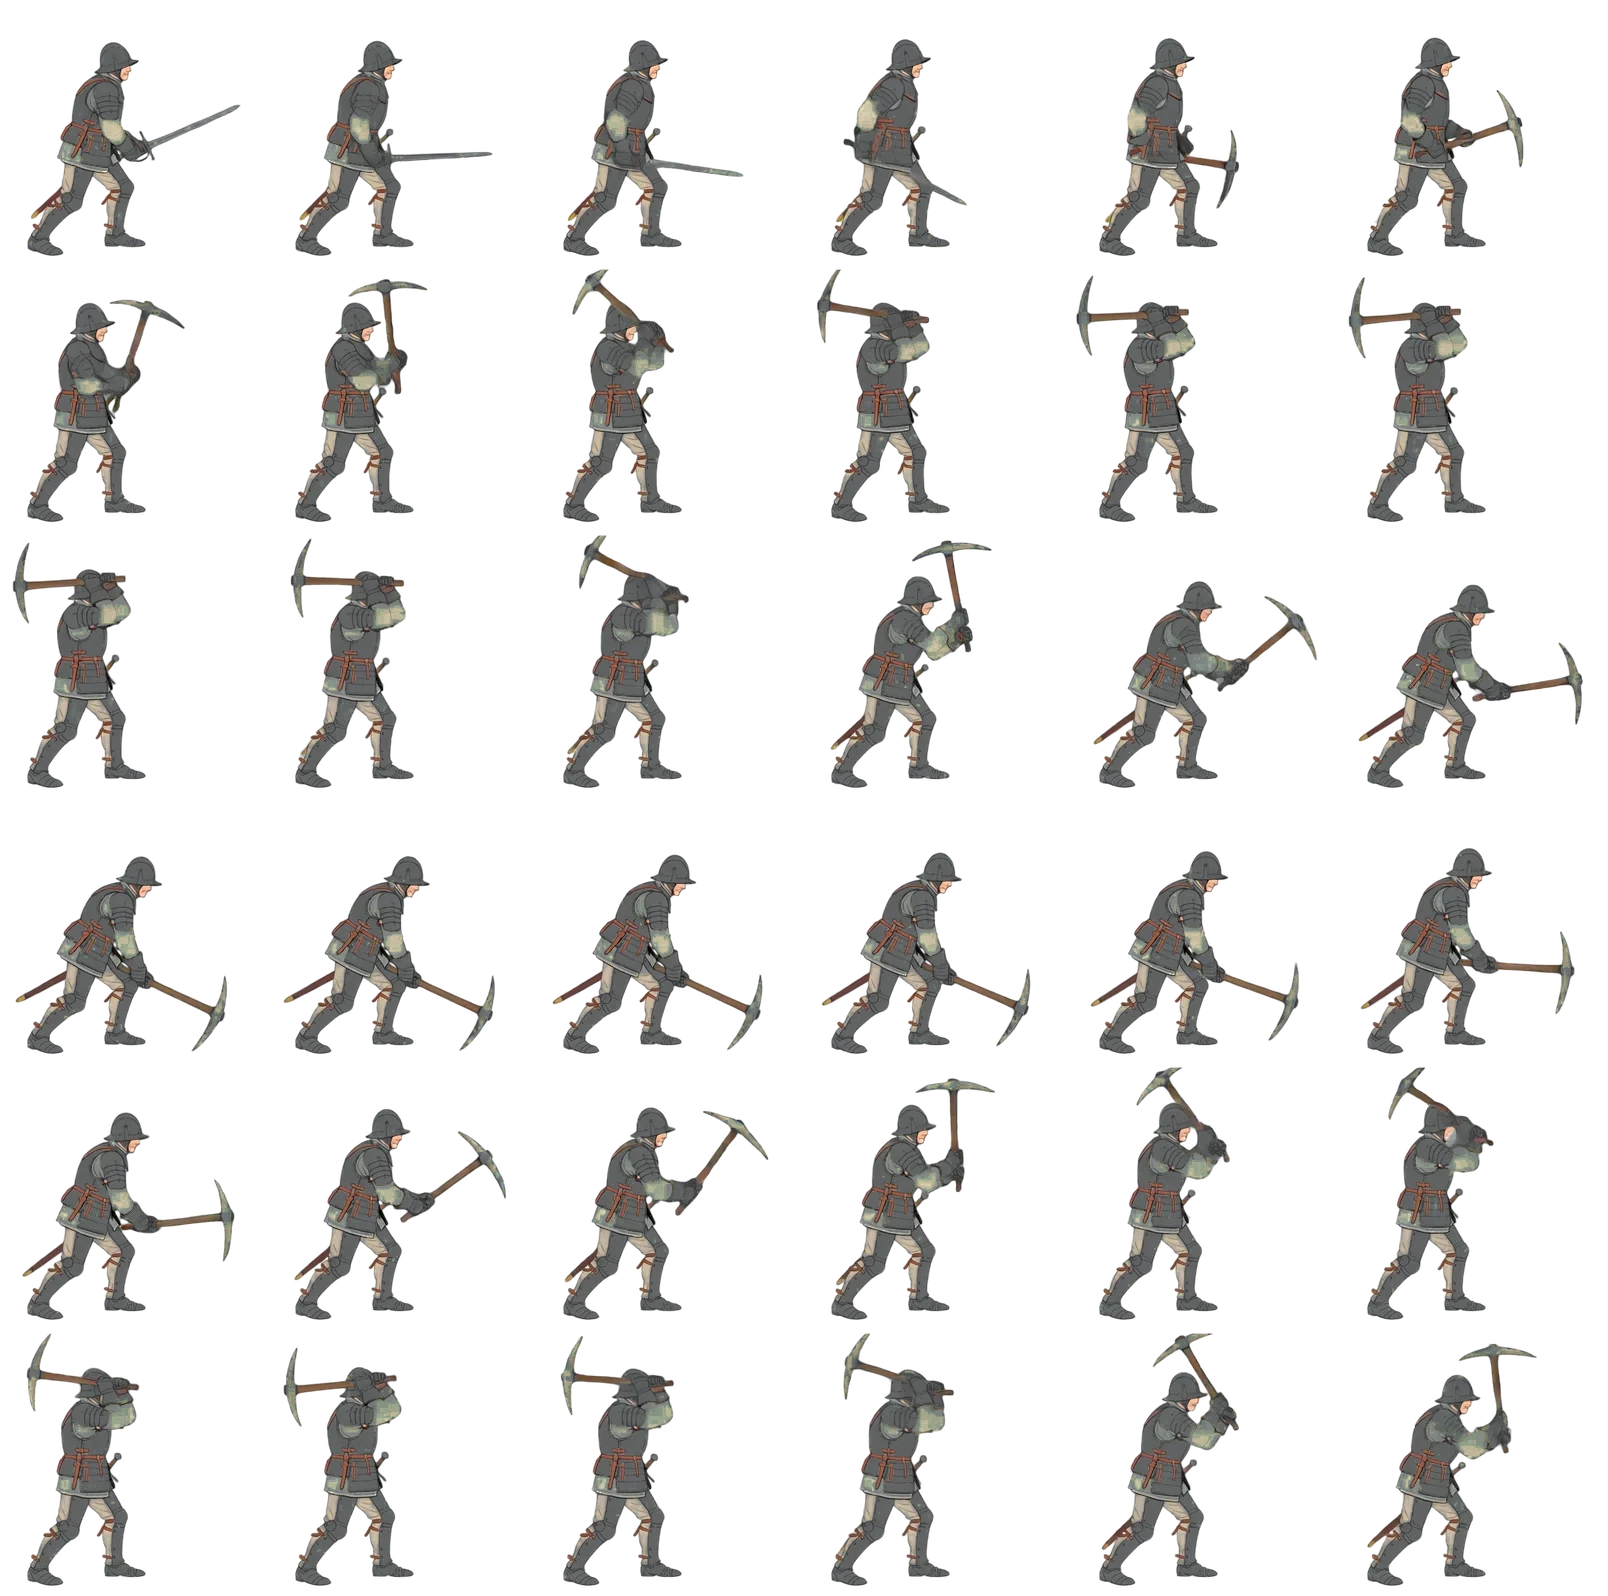
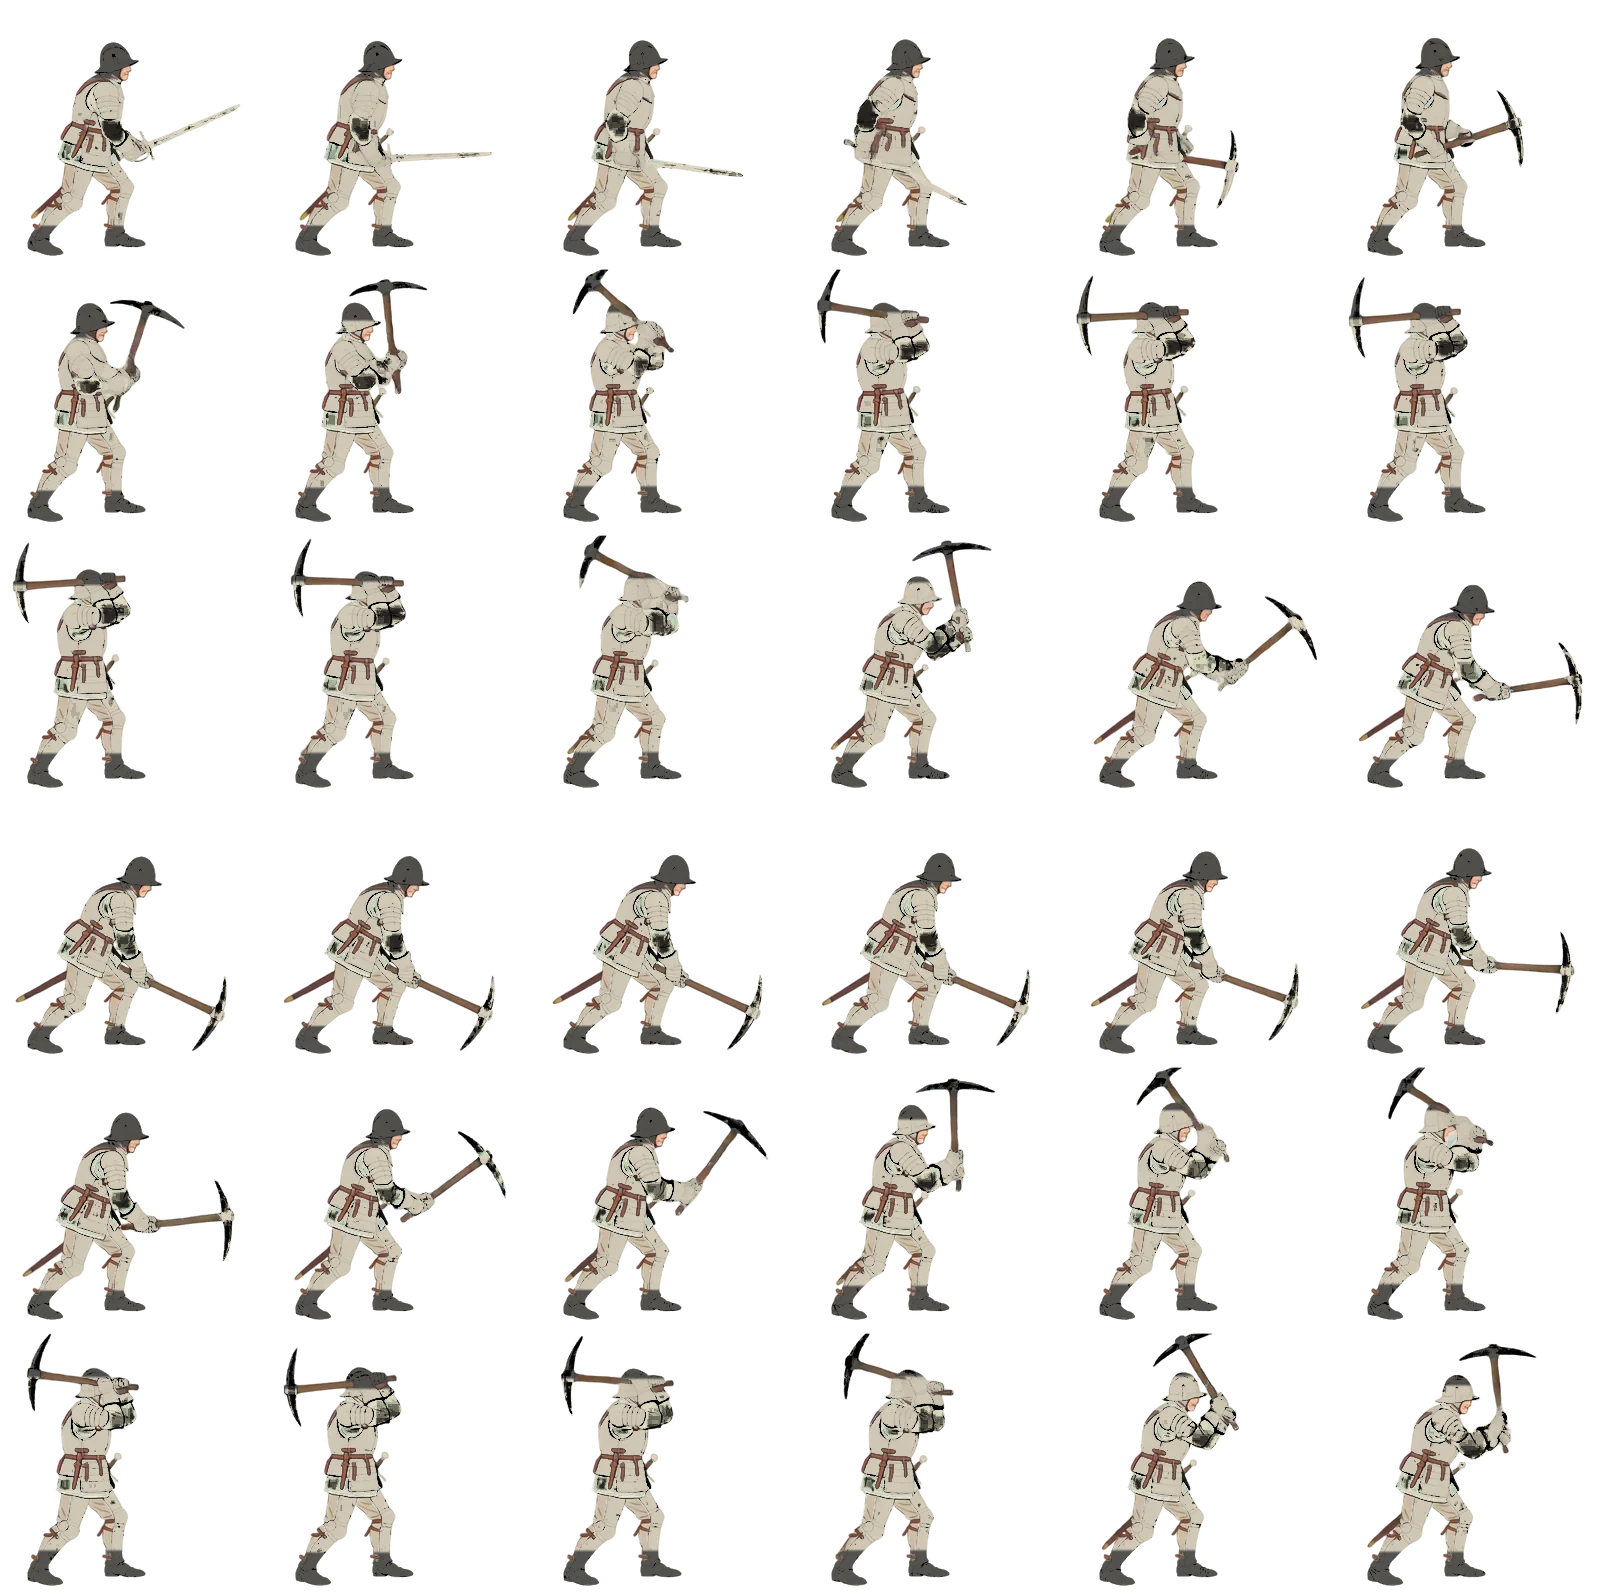
Fossoyeur sur la carte : armure d'os pâle, heaume et bottes noirs (comme l'image de combat)
Le recoloriage du vétéran ne changeait presque rien (même silhouette, acier plus sombre). Nouvelles
règles : plaques d'os, zones sombres en haut et en bas du personnage, tunique en cuir sombre.

Claude-Session: https://claude.ai/code/session_018rB1oVJsRriVojRURA2hky

diff --git a/scripts/recolor-hero.py b/scripts/recolor-hero.py
@@ -25,8 +25,10 @@ OUTFITS = {
     "fossoyeur": {
         "base": "veteran",
         "rules": [
-            {"kind": "steel", "val_mul": 0.74},                                                    # armure : métal plus sombre
-            {"kind": "cloth", "hue": (130, 210), "sat_min": 0.10, "to_hue": 44, "to_sat": 0.20, "val_add": 0.10, "val_mul": 1.10},   # tunique verdâtre -> os
+            {"kind": "bone", "val": 0.86, "sat": 0.13, "hue": 42},                                  # armure : plaques d'os pâle (comme l'image de combat)
+            {"kind": "dark", "from": 0.0, "to": 0.17, "val": 0.15},                                  # heaume noir (le haut du personnage, dans chaque image)
+            {"kind": "dark", "from": 0.86, "to": 1.0, "val": 0.17},                                  # bottes noires (le bas)
+            {"kind": "cloth", "hue": (130, 210), "sat_min": 0.10, "to_hue": 28, "to_sat": 0.18, "val_add": -0.30, "val_mul": 0.60},   # tunique verdâtre -> cuir sombre
         ],
     },
 }
@@ -49,13 +51,33 @@ def hsv_to_rgb(h, s, v):
     r = np.choose(i, [v, q, p, p, t, v]); g = np.choose(i, [t, v, v, q, p, p]); b = np.choose(i, [p, p, t, v, v, q])
     return np.stack([r, g, b], -1)
 
-def recolor(img, rules):
+def recolor(img, rules, cols=1, rows=1):
     a = np.asarray(img.convert("RGBA")).astype(np.float64) / 255.0
     rgb, alpha = a[..., :3], a[..., 3]
     h, s, v = rgb_to_hsv(rgb)
     H, S, V = h.copy(), s.copy(), v.copy()
+    steel = (1 - smooth(s, 0.10, 0.22)) * smooth(v, 0.18, 0.34) * (1 - smooth(v, 0.92, 0.99))     # masque doux du métal gris
+    # position verticale relative de chaque pixel dans le personnage de SON image (0 = sommet, 1 = pieds)
+    ht, wd = alpha.shape; fh, fw = ht // rows, wd // cols
+    rel = np.zeros_like(alpha)
+    for r in range(rows):
+        for c in range(cols):
+            cell = alpha[r * fh:(r + 1) * fh, c * fw:(c + 1) * fw]; ys = np.where(cell.max(1) > 0.3)[0]
+            if len(ys) < 2: continue
+            top, bot = ys[0], ys[-1]
+            rel[r * fh:(r + 1) * fh, c * fw:(c + 1) * fw] = np.clip((np.arange(fh)[:, None] - top) / max(bot - top, 1), 0, 1) * np.ones((1, fw))
     for ru in rules:
-        if ru["kind"] == "steel":
+        if ru["kind"] == "bone":
+            w = steel * (1 - smooth(v, 0.66, 0.78))                          # les lames (acier clair) restent de l'acier
+            H = H * (1 - w) + ru["hue"] * w
+            S = S * (1 - w) + ru["sat"] * w
+            V = V * (1 - w) + np.clip(0.55 + V * 0.5, 0, 1) * ru["val"] / 0.86 * w          # garde le relief des plaques
+        elif ru["kind"] == "dark":
+            band = smooth(rel, ru["from"] - 0.008, ru["from"] + 0.008) * (1 - smooth(rel, ru["to"] - 0.008, ru["to"] + 0.008)) if ru["from"] > 0 else (1 - smooth(rel, ru["to"] - 0.008, ru["to"] + 0.008))
+            w = np.clip(band * (alpha > 0.3), 0, 1) * np.clip(steel + (1 - smooth(s, 0.0, 0.4)) * 0.8, 0, 1)
+            V = V * (1 - w) + V * 0.30 * w + ru["val"] * 0.5 * w
+            S = S * (1 - 0.5 * w)
+        elif ru["kind"] == "steel":
             w = (1 - smooth(s, 0.10, 0.22)) * smooth(v, 0.18, 0.34) * (1 - smooth(v, 0.92, 0.99))
             V = V * (1 - w) + (V * ru["val_mul"]) * w
             S = S * (1 - 0.6 * w)                                   # le métal perd son reflet verdâtre
@@ -78,7 +100,8 @@ if __name__ == "__main__":
         dst = os.path.join(HERO, body, name); os.makedirs(dst, exist_ok=True)
         for act in ACTIONS:
             im = Image.open(os.path.join(src, act + ".webp"))
-            recolor(im, cfg["rules"]).save(os.path.join(dst, act + ".webp"), "WEBP", quality=88, method=6)
+            m0 = meta.get(f"{body}/{cfg['base']}", {}).get("actions", {}).get(act, {})
+            recolor(im, cfg["rules"], m0.get("cols", 1), m0.get("rows", 1)).save(os.path.join(dst, act + ".webp"), "WEBP", quality=88, method=6)
         if f"{body}/{cfg['base']}" in meta: meta[f"{body}/{name}"] = meta[f"{body}/{cfg['base']}"]
     json.dump(meta, open(META, "w"), indent=1, ensure_ascii=False)
     print("ok", name)

diff --git a/README.md b/README.md
@@ -262,4 +262,4 @@ Le Bestiaire a un second bouton, **Équipements** : les 88 équipements du jeu (
 
 **Niveau minimum pour s'équiper** (`utils/equipReq.js`, logique dans `utils/equip.js`) : une pièce demande le niveau où commence sa région, soit palier 1 : aucun, palier 2 : 8, palier 3 : 14, palier 4 (donjon) : 20 ; les objets de boss sans palier ont le niveau de leur région (cape de l'Épouvantail 5, cœur de braise 8, anneau du Cavalier et armure maudite 14, armes du Veilleur 20). Le sac et la fiche du personnage grisent la pièce (« Niveau N requis »), la fiche du bestiaire l'indique. On peut fabriquer, ranger et vendre une pièce trop haute ; une pièce déjà portée (vieille sauvegarde) reste portée. Les simulés s'équipent plus tard que ces niveaux (10, 16, 20), aucun ne peut la contourner. Test : `scripts/test-equipreq.js`.
 
-Un set porté à 2 pièces ou plus change l'apparence du héros (ou on la choisit dans la fiche du personnage une fois une pièce du set possédée). Les trois premiers sets avaient leurs images ; les autres sont ajoutés un par un, à petit prix : l'**image de combat** (corps masculin et féminin) est générée avec Ludo (1,5 crédit par essai de 3 variantes), et les **animations de la carte** (marche, minage, abattage, cueillette) sont fabriquées gratuitement en recolorant celles de la tenue de base de la même classe avec `python3 -I scripts/recolor-hero.py <tenue>` (règles de teinte par tenue dans le script ; les feuilles et les métadonnées de `heroAnims.json` sont écrites toutes seules). Pour ajouter une tenue : image de combat dans `public/assets/combat/hero/{m,f}/<set>.webp`, une entrée dans `OUTFITS` du script, puis le nom du set dans `HERO_OUTFITS` et `OUTFIT_LABELS` (`src/data/heroSprites.js`). `scripts/test-heroskins.js` vérifie que chaque tenue proposée a toutes ses images. Faits : Fossoyeur. À faire : Charognard, Brasier, Chevalier Déchu, Loup-Garou, Esprit Errant, Garde Noyé, Veneur, Veuve.
+Un set porté à 2 pièces ou plus change l'apparence du héros (ou on la choisit dans la fiche du personnage une fois une pièce du set possédée). Les trois premiers sets avaient leurs images ; les autres sont ajoutés un par un, à petit prix : l'**image de combat** (corps masculin et féminin) est générée avec Ludo (1,5 crédit par essai de 3 variantes), et les **animations de la carte** (marche, minage, abattage, cueillette) sont fabriquées gratuitement en recolorant celles de la tenue de base de la même classe avec `python3 -I scripts/recolor-hero.py <tenue>` (règles par tenue dans le script : teinte du métal et du tissu, plaques d'os, et zones sombres en haut et en bas du personnage pour le heaume et les bottes ; les feuilles et les métadonnées de `heroAnims.json` sont écrites toutes seules). Pour ajouter une tenue : image de combat dans `public/assets/combat/hero/{m,f}/<set>.webp`, une entrée dans `OUTFITS` du script, puis le nom du set dans `HERO_OUTFITS` et `OUTFIT_LABELS` (`src/data/heroSprites.js`). `scripts/test-heroskins.js` vérifie que chaque tenue proposée a toutes ses images. Faits : Fossoyeur. À faire : Charognard, Brasier, Chevalier Déchu, Loup-Garou, Esprit Errant, Garde Noyé, Veneur, Veuve.
